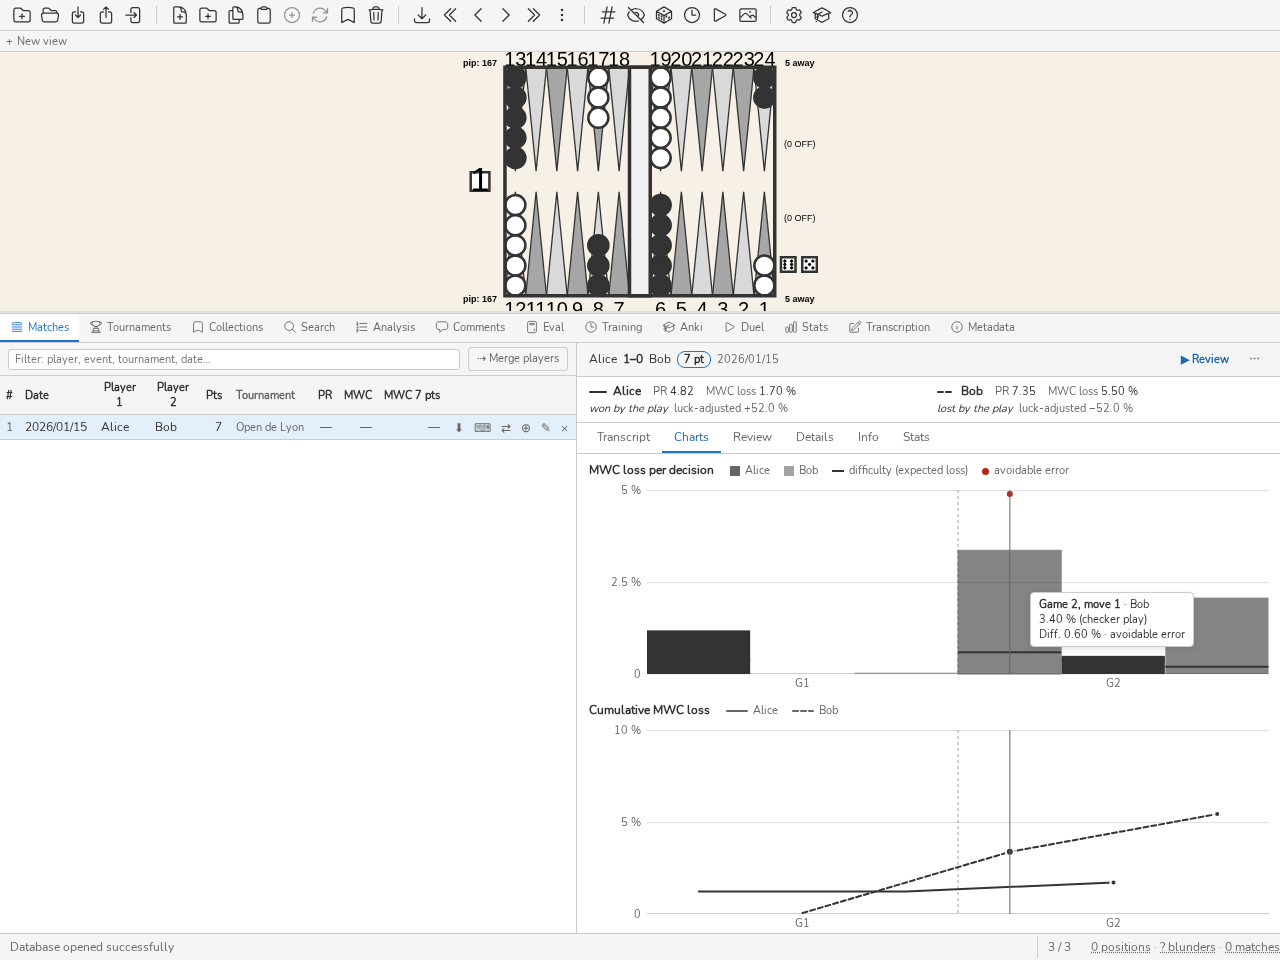
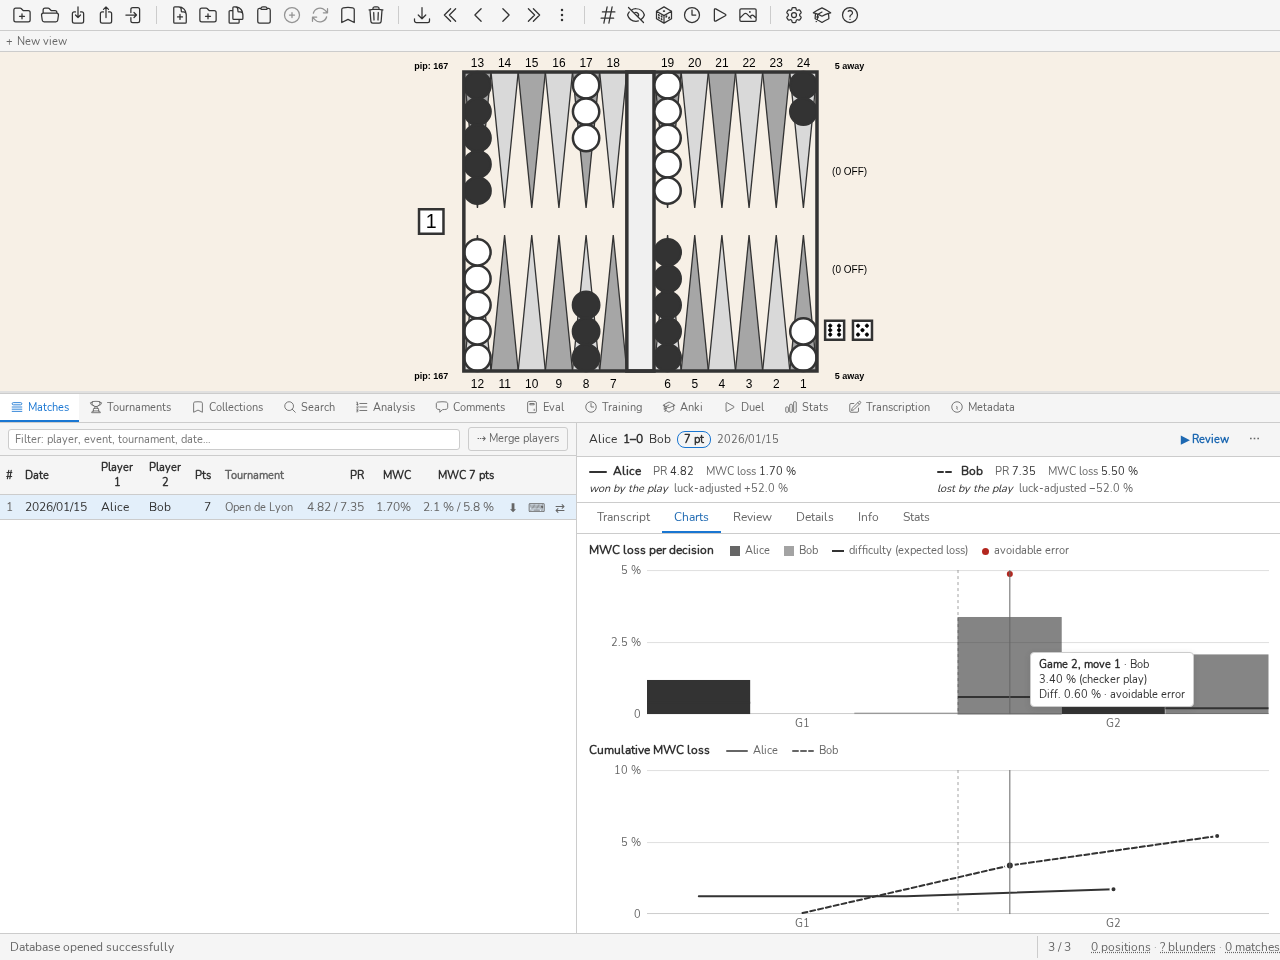
fix(plateau): les numéros de points, le cube et le compte de pile suivent la taille du plateau
Sous un panneau haut, la taille fixe des numéros (20 px) débordait la
colonne et la bande sous le plateau, le chiffre du cube (34 px) sa face :
les numéros se chevauchaient et le cube devenait un glyphe parasite. Ces
tailles sont désormais plafonnées par la place disponible ; à taille
normale rien ne change.

La capture panel_match_sheet.png recopie dans la maquette de
GetAllMatches les badges PR/MWC/MWC 7 pts du bilan (applyMatchBadges les
calcule dans l'app), et laisse au plateau une hauteur lisible.

diff --git a/frontend/src/__tests__/boardScene.test.js b/frontend/src/__tests__/boardScene.test.js
@@ -30,7 +30,8 @@ import {
     drawBearoff,
     drawPipCounts,
     drawMoveArrows,
-    drawFrame
+    drawFrame,
+    estimateTextWidth
 } from '../utils/boardScene.js';
 
 // ── Fixtures ────────────────────────────────────────────────────────────────
@@ -542,5 +543,60 @@ describe('drawDynamicScene', () => {
         expect(two.of('text').map((t) => t.args[0])).toContain('pip: 167');
         expect(two.of('line')).toHaveLength(2);
         expect(two.of('path')).toHaveLength(2);
+    });
+});
+
+// A panel raised over the board shrinks the checker while a fixed font size stays: the labels
+// would then spill over the next column, the cube face and the checker they sit on.
+describe('text follows the size of the board', () => {
+    const small = boardMetrics(300, 220, 0.75);
+    const scs = small.checkerSize;
+
+    test('a point number never grows past its column on a small board', () => {
+        const two = recorder();
+        drawLabels(two, small, makeCfg(), false);
+        for (const label of two.of('text')) {
+            expect(estimateTextWidth(label.args[0], label.size)).toBeLessThanOrEqual(scs);
+        }
+    });
+
+    test('the numbers under points 1-12 stay inside the canvas on a small board', () => {
+        const two = recorder();
+        drawLabels(two, small, makeCfg(), false);
+        for (const label of two.of('text').filter((t) => t.baseline === 'top')) {
+            expect(label.args[2] + label.size).toBeLessThanOrEqual(small.height);
+        }
+    });
+
+    test('the cube face holds its number on a small board', () => {
+        const two = recorder();
+        const pos = emptyPos();
+        pos.cube = { owner: -1, value: 6 };
+        const box = drawDoublingCube(two, small, makeCfg(), pos, false);
+        const [label] = two.of('text');
+        expect(estimateTextWidth(label.args[0], label.size)).toBeLessThanOrEqual(box.size);
+        expect(label.size).toBeLessThanOrEqual(box.size);
+    });
+
+    test('the count on a tall stack stays inside its checker on a small board', () => {
+        const two = recorder();
+        const pos = emptyPos();
+        pos.board.points[6] = { checkers: 15, color: 0 };
+        drawCheckers(two, small, makeCfg(), pos);
+        const [count] = two.of('text');
+        expect(estimateTextWidth(count.args[0], count.size)).toBeLessThanOrEqual(scs);
+    });
+
+    test('a full-size board keeps the configured sizes', () => {
+        const two = recorder();
+        const pos = startPos();
+        pos.board.points[6] = { checkers: 12, color: 0 };
+        pos.cube = { owner: -1, value: 6 };
+        drawLabels(two, geom, makeCfg(), false);
+        drawCheckers(two, geom, makeCfg(), pos);
+        drawDoublingCube(two, geom, makeCfg(), pos, false);
+        const sizes = two.of('text').map((t) => t.size);
+        expect(sizes.slice(0, 24)).toEqual(Array(24).fill(20));
+        expect(sizes.slice(24)).toEqual([20, 34]);
     });
 });

diff --git a/frontend/src/utils/boardScene.js b/frontend/src/utils/boardScene.js
@@ -175,10 +175,13 @@ export function drawTriangles(two, geom, cfg) {
 export function drawLabels(two, geom, cfg, flip) {
     const { originY, boardHeight, checkerSize } = geom;
     const offset = 0.5 * boardHeight + cfg.label.distanceToBoard * checkerSize;
+    // The numbers sit in the strip between board and canvas edge, under a 1-12 baseline 'top'.
+    const strip = (geom.height - boardHeight) / 2 - cfg.label.distanceToBoard * checkerSize;
+    const size = Math.max(0, Math.min(fittedTextSize(['24'], 0.9 * checkerSize, cfg.label.size), strip));
     for (let p = 1; p <= 24; p++) {
         const bottom = p <= 12;
         const t = two.makeText((flip ? 25 - p : p).toString(), pointColumnX(geom, cfg.orientation, p), bottom ? originY + offset : originY - offset);
-        t.size = cfg.label.size;
+        t.size = size;
         t.alignment = 'center';
         t.baseline = bottom ? 'top' : 'middle';
     }
@@ -297,7 +300,7 @@ export function drawCheckers(two, geom, cfg, position) {
             checker.linewidth = cfg.checker.linewidth;
             if (i === 4 && point.checkers > 5) {
                 const text = two.makeText(point.checkers.toString(), x, y);
-                text.size = 20;
+                text.size = fittedTextSize([point.checkers.toString()], 1.6 * radius, 20);
                 text.alignment = 'center';
                 text.baseline = 'middle';
                 text.weight = 'bold';
@@ -349,8 +352,9 @@ export function drawDoublingCube(two, geom, cfg, position, offered) {
     cube.fill = cfg.cube.fill;
     cube.stroke = cfg.stroke; // follows the board border colour
     cube.linewidth = 2.5;
-    const text = two.makeText(Math.pow(2, position.cube.value).toString(), box.x, box.y);
-    text.size = 34;
+    const face = Math.pow(2, position.cube.value).toString();
+    const text = two.makeText(face, box.x, box.y);
+    text.size = Math.min(fittedTextSize([face], box.size, 34), 0.8 * box.size);
     text.alignment = 'center';
     text.baseline = 'middle';
     text.translation.set(box.x, box.y + 0.05 * box.size); // optically centred
@@ -391,6 +395,20 @@ export function estimateTextWidth(content, size) {
     let em = 0;
     for (const ch of content) em += /** @type {number} */ (ch.codePointAt(0)) >= 0x2e80 ? 1 : 0.62;
     return em * size;
+}
+
+/**
+ * The configured font size `max`, shrunk so the widest of `contents` stays within `room`: the
+ * point numbers, cube face and stack count are sized by the checker, which shrinks with the panel
+ * above the board, and a fixed size would overflow their column, face or checker.
+ *
+ * @param {string[]} contents
+ * @param {number} room
+ * @param {number} max
+ */
+export function fittedTextSize(contents, room, max) {
+    const widest = Math.max(...contents.map((c) => estimateTextWidth(c, 1)));
+    return Math.min(max, room / widest);
 }
 
 /**

diff --git a/frontend/tests/e2e/screenshot-panels.spec.js b/frontend/tests/e2e/screenshot-panels.spec.js
@@ -184,19 +184,23 @@ test('galerie de captures panneau par panneau', async ({ page }) => {
 
 // La fiche d'un match analysé, onglet Graphes, une décision survolée : le jeu
 // vitrine n'a pas de bilan, celui de match-sheet.spec.js en a un (L₇ compris).
+// La liste lit les badges que GetAllMatches calcule (applyMatchBadges) : la
+// maquette les recopie du bilan, sans quoi la ligne contredirait la fiche.
 test("capture de la fiche d'un match, onglet Graphes", async ({ page }) => {
+    const [p1, p2] = reviewSummary.players;
+    const badges = { pr: p1.pr, pr2: p2.pr, mwc_loss: p1.mwc_loss, mwc_loss2: p2.mwc_loss, mwc7: p1.mwc7, mwc7_p2: p2.mwc7 };
     await page.setViewportSize(VIEWPORT);
     await installWailsMock(
         page,
         openLibraryMock({
             database: {
-                GetAllMatches: [{ ...matchSample, tournament_name: 'Open de Lyon', round: '3', location: 'Lyon' }],
+                GetAllMatches: [{ ...matchSample, ...badges, tournament_name: 'Open de Lyon', round: '3', location: 'Lyon' }],
                 GetMatchMovePositions: reviewMoves,
                 GetGamesByMatch: matchGames,
                 GetMatchDecisionLosses: reviewLosses,
                 GetMatchReview: reviewSummary
             },
-            config: { GetTabPanelHeights: { '*': 620 } }
+            config: { GetTabPanelHeights: { '*': 540 } }
         })
     );
     await page.goto('/');
